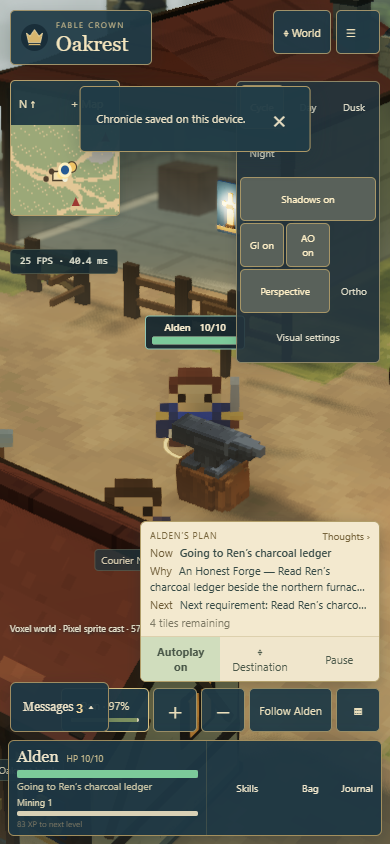
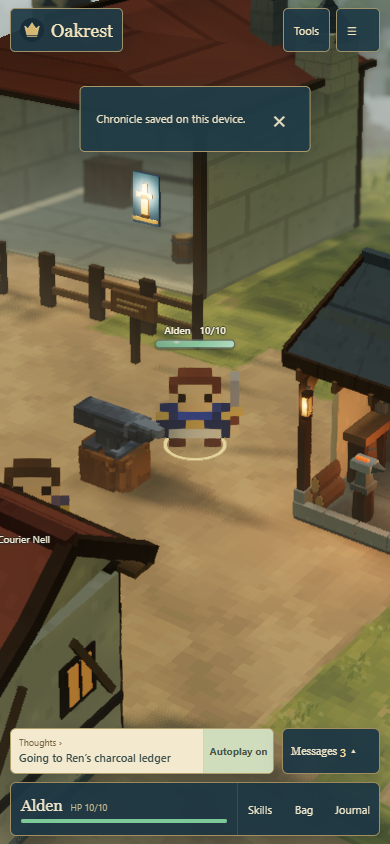
Record verified startup and mobile rendering release [skip ci]

diff --git a/docs/WORKFLOW_MEMORY.md b/docs/WORKFLOW_MEMORY.md
@@ -133,10 +133,10 @@
 
 - Final CI boundary: test:release has2non-GPU worker/save/offline/mobile smoke cases. GPU interactions and visual/performance suites are local; verify real public WebGL after publish.
 
-- Current live release3145104 / Actions41156022977 verified2026-10-31; e9d6b83674ae. Canonical integrated checkout tmp/release-publication. CI2non-GPU smoke cases; visual/GPU suites local. Wait for SW activation before upgrade reload; hold save fixtures via real Pause/Save.
+- Current live releasebc8d95f / Actions41193001537 verified2026-10-31; d3e8285fd472. Canonical integrated checkout tmp/release-publication. CI2non-GPU smoke cases; visual/GPU suites local. Wait for SW activation before upgrade reload; hold save fixtures via real Pause/Save.
 
 - Async rendering: voxel assets decode in a worker; runtime LOD stages at2ms/8192cells and commits≤1replacement/frame, retaining prior/coarse coverage. GI slices at~4ms; final GPU uploads remain synchronous. Keep identical capped levels shared.
-- Streaming benchmark: scripts/benchmark-streaming.mjs LABEL; BENCH_DIST selects an isolated original. Run original→changed→original serially; see performance/async-streaming. Root pass is not yet in tmp/release-publication. New local GPU regression: rpg-voxel-streaming.spec.ts; mobile controls use Tools.
-- First overview hitch diagnosed: shader-profile.json records934ms frame/~880ms waiting on11new shader programs. No async prewarm currently; warm normal+overview fog/shadow variants next. See performance/async-streaming/README.md; diagnosis only.
+- Streaming benchmark: scripts/benchmark-streaming.mjs LABEL; BENCH_DIST selects an isolated original. Run original→changed→original serially; see performance/async-streaming. Pass is integrated and published from tmp/release-publication. New local GPU regression: rpg-voxel-streaming.spec.ts; mobile controls use Tools.
+- First overview hitch diagnosed: shader-profile.json records934ms frame/~880ms waiting on11new shader programs. Startup now warms direct/HDR/overview/post variants before HUD; first overview links0new programs. See performance/async-streaming/README.md; diagnosis only.
 - Startup now gates all HUD/world input through ScenePreparation; initial HTML also explains loading. Precompile actual direct/HDR/overview/post targets before ready; abort context loss, require current GI version. New rpg-startup tests cover offline/error/noHUDflash and0first-overview links.
-- Combined candidate is now integrated in tmp/release-publication, including latest glass-vial/action-ring UI. Publish only after other project chats finish; local visual coverage77active/1priorwaiver, release CI stays2non-GPU smoke cases.
+- Combined release is now live from tmp/release-publication, including latest glass-vial/action-ring UI. Publish only after other project chats finish; local visual coverage77active/1priorwaiver, release CI stays2non-GPU smoke cases.

diff --git a/docs/PROGRESS.md b/docs/PROGRESS.md
@@ -563,3 +563,7 @@ Health vials7→9px; rounded front glint/curved wash reuse existing light angle/
 Full-screen preparation begins in HTML, then covers assets/world, direct+HDR normal/overview/post shader warmup, initial uploads and the current GI field. Entire HUD/world stays hidden and inert until the prepared frame; clear chapter/graphics failure exits preserve retry/save access. Context loss aborts/disposes pending startup. No simulation/save/API change. Actual first overview links0new shaders after readiness; no physical-phone timing claim.
 479unit tests/61files, strict build/typecheck/Pages-PWA gate pass. Local coverage verifies77active visual scenarios across the full run and targeted reruns, with1existing waiver. Old test assumptions were updated for Tools, HUD wrappers and the read-only decoder worker; all affected cases pass. Final15-case combined startup/mobile/vial/ring/gameplay subset passes. Actual preparation phone screenshots reviewed in screenshots/startup.
 Waited for both completed turns in the other UI chat before integration. Candidate includes quiet mobile HUD, transparent floating text, thicker glass health vials, circular skill timers and async voxel/GI work. Canonical checkpoint: tmp/release-publication; publication and live upgrade verification follow.
+
+### Published combined release — 2026-10-31
+Publishedbc8d95f; Actions41193001537 passed (unit/type/build/asset/PWA +2non-GPU release checks). Actual https://cudldev.github.io/Fable-Crown/ matches artifactd3e8285fd472. Desktop/phone orientations, real WebGL, saved chapter, old-cache upgrade and offline reload verified; inventory/skills/equipment preserved, old caches removed, zero page/GL/request/external errors. Includes protected startup, shader warmup, async voxel/GI work, quiet HUD, transparent labels, glass health vials and circular skill timers. Other UI work finished before integration/publication.
+Reports: VOXEL_DEFAULT_PAGES_VERIFICATION.json and LIVE_UPGRADE_VERIFICATION.json; canonical checkout tmp/release-publication. Source authoring workspace preserved. Weekly14%used/~86%remaining; no paid reset/API/hosting added. Physical-phone performance remains unmeasured.
